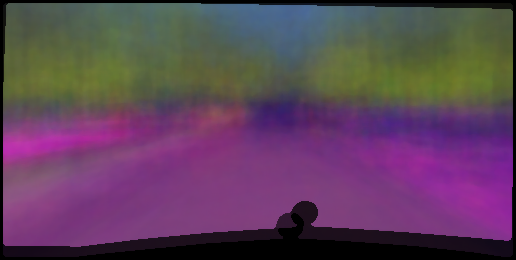
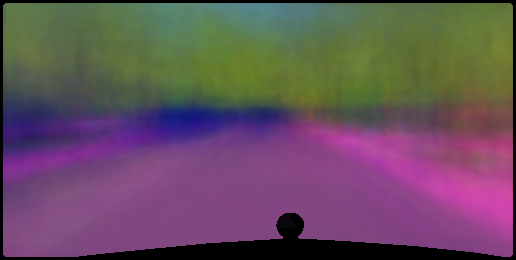
sharpen

diff --git a/generate_map.py b/generate_map.py
@@ -40,6 +40,8 @@ def generate_encoding(avg):
 def post_processing(img_name):
     img = cv2.imread(img_name)
     blur = cv2.medianBlur(img, 5)
+    kernel = np.array([[0,-1,0], [-1,5,-1], [0,-1,0]])
+    sharp = cv2.filter2D(blur, -1, kernel)
     cv2.imwrite(img_name, blur)
     return blur
 
